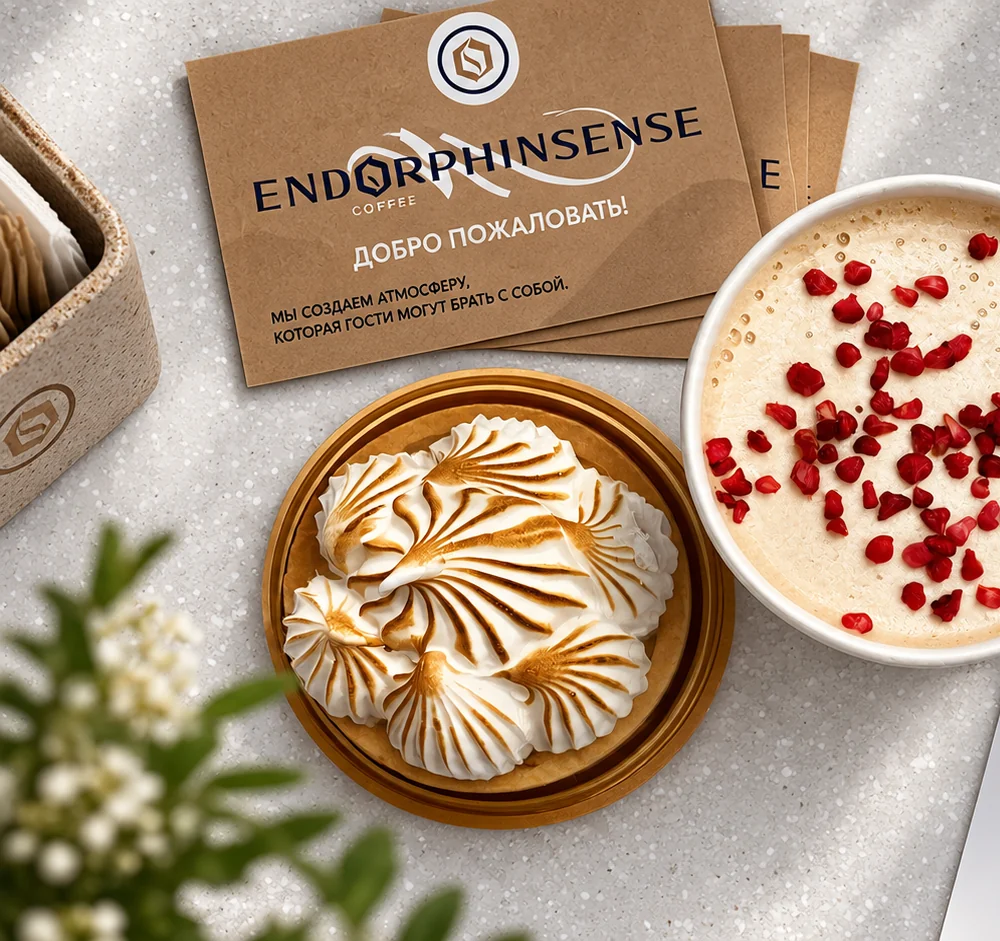
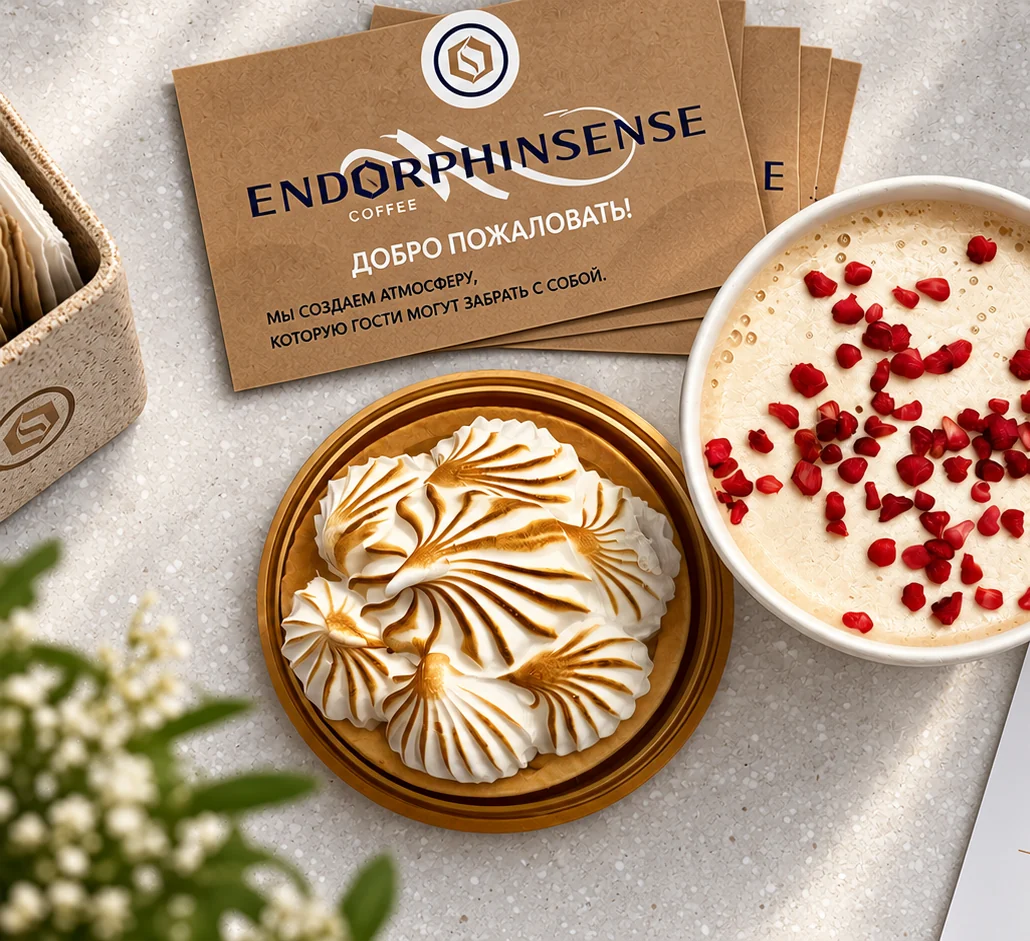
/gde-poest: меню кофейни «Эндорфин», исправленная цитата на фото, выравнивание карусели
- Добавлено меню «Эндорфин»: 11 позиций, без цен и граммовок; на десктопе — вторая колонка, на телефоне — раскрывающийся список
- Заменены endorphin-coffee-h.webp и endorphin-coffee-v.webp: исправлена грамматическая ошибка в цитате («которую гости могут забрать»)
- Карусель заведений на широком экране переведена в сетку из пяти колонок; правый край совпадает с карточкой «Яблоко»

diff --git a/app/gde-poest/page.tsx b/app/gde-poest/page.tsx
@@ -10,6 +10,7 @@ import {
   IconStore,
   IconBreakfast,
   IconMapPin,
+  IconChevronDown,
 } from './icons';
 import './gde-poest.css';
 
@@ -279,50 +280,102 @@ export default function GdePoestPage() {
             </div>
           </div>
 
-          {/* Тело секции */}
+          {/* Тело секции — на десктопе 2 колонки: слева контент, справа меню */}
           <div className="gp-endorphin-body gp-reveal">
-            <p className="gp-end-desc">
-              Деревянные балки, бежевые диваны и панорамное окно в зелень —
-              место, где утром не хочется торопиться. На стене мурал с
-              танцующей парой в пыльно-розовых и серо-синих тонах. Авторский
-              раф с дроблёной малиной, безе и кофе без суеты — и всё это в
-              соседнем корпусе.
-            </p>
 
-            {/* КУПОН */}
-            <div className="gp-coupon" aria-label="Купон на скидку 5% для гостей «Стиля Жизни»">
-              <div className="gp-coupon-left">
-                <span className="gp-coupon-pct">5%</span>
-                <span className="gp-coupon-label">Скидка</span>
+            {/* ── Левая колонка: описание, купон, кнопки ── */}
+            <div className="gp-end-main">
+              <p className="gp-end-desc">
+                Деревянные балки, бежевые диваны и панорамное окно в зелень —
+                место, где утром не хочется торопиться. На стене мурал с
+                танцующей парой в пыльно-розовых и серо-синих тонах. Авторский
+                раф с дроблёной малиной, безе и кофе без суеты — и всё это в
+                соседнем корпусе.
+              </p>
+
+              {/* КУПОН */}
+              <div className="gp-coupon" aria-label="Купон на скидку 5% для гостей «Стиля Жизни»">
+                <div className="gp-coupon-left">
+                  <span className="gp-coupon-pct">5%</span>
+                  <span className="gp-coupon-label">Скидка</span>
+                </div>
+                <div className="gp-coupon-divider" aria-hidden="true" />
+                <div className="gp-coupon-right">
+                  <span className="gp-coupon-sublabel">Гостям «Стиля Жизни»</span>
+                  <span className="gp-coupon-body">Промокод даёт менеджер при бронировании</span>
+                </div>
               </div>
-              <div className="gp-coupon-divider" aria-hidden="true" />
-              <div className="gp-coupon-right">
-                <span className="gp-coupon-sublabel">Гостям «Стиля Жизни»</span>
-                <span className="gp-coupon-body">Промокод даёт менеджер при бронировании</span>
+
+              {/* Строка завтрак */}
+              <div className="gp-end-breakfast-note">
+                <IconBreakfast />
+                Завтрак по внутреннему тарифу отеля оформляется заранее через
+                менеджера.
               </div>
+
+              {/* Кнопки */}
+              <div className="gp-end-actions">
+                <a
+                  href="https://yandex.ru/maps/org/endorfin/89879110034?si=lifestyle-crimea"
+                  className="gp-end-btn-primary"
+                  target="_blank"
+                  rel="nofollow noopener"
+                  aria-label="Открыть кофейню «Эндорфин» на карте"
+                >
+                  <IconMapPin />
+                  На карте
+                </a>
+                <BreakfastBtn />
+              </div>
+
+              {/* Мобайл: аккордеон меню (скрыт на ≥1025px) */}
+              <details className="gp-menu-collapse">
+                <summary className="gp-menu-toggle">
+                  <IconChevronDown className="gp-menu-toggle-ico" />
+                  Меню кофейни
+                </summary>
+                <div className="gp-menu-inner">
+                  <p className="gp-menu-title">Что есть в меню</p>
+                  <p className="gp-menu-footnote">Меню меняется каждый день — актуальное на кассе</p>
+                  <ol className="gp-menu-items">
+                    <li className="gp-menu-item"><span className="gp-menu-num">01</span><span className="gp-menu-name">Блинчики с бананом, творогом и арахисовой пастой</span></li>
+                    <li className="gp-menu-item"><span className="gp-menu-num">02</span><span className="gp-menu-name">Вафли из брокколи и сыра со сметаной</span></li>
+                    <li className="gp-menu-item"><span className="gp-menu-num">03</span><span className="gp-menu-name">Салат с пекинской капустой, курицей, горошком и яичным блинчиком</span></li>
+                    <li className="gp-menu-item"><span className="gp-menu-num">04</span><span className="gp-menu-name">Итальянский овощной суп минестроне</span></li>
+                    <li className="gp-menu-item"><span className="gp-menu-num">05</span><span className="gp-menu-name">Творожная ватрушка с сыром</span></li>
+                    <li className="gp-menu-item"><span className="gp-menu-num">06</span><span className="gp-menu-name">Курочка по-французски с гречкой и тушёной капустой</span></li>
+                    <li className="gp-menu-item"><span className="gp-menu-num">07</span><span className="gp-menu-name">Куриный бульон с лапшой, курицей и яйцом</span></li>
+                    <li className="gp-menu-item"><span className="gp-menu-num">08</span><span className="gp-menu-name">Салат «Цезарь»</span></li>
+                    <li className="gp-menu-item"><span className="gp-menu-num">09</span><span className="gp-menu-name">Сэндвич с курочкой карри</span></li>
+                    <li className="gp-menu-item"><span className="gp-menu-num">10</span><span className="gp-menu-name">Овсяная каша с сухофруктами и орехами</span></li>
+                    <li className="gp-menu-item"><span className="gp-menu-num">11</span><span className="gp-menu-name">Куриная котлетка с картофельным пюре</span></li>
+                  </ol>
+                </div>
+              </details>
             </div>
 
-            {/* Строка завтрак */}
-            <div className="gp-end-breakfast-note">
-              <IconBreakfast />
-              Завтрак по внутреннему тарифу отеля оформляется заранее через
-              менеджера.
-            </div>
+            {/* ── Правая колонка: меню (только десктоп ≥1025px) ── */}
+            <aside
+              className="gp-end-menu-panel"
+              aria-label="Что есть в меню кофейни «Эндорфин»"
+            >
+              <p className="gp-menu-title">Что есть в меню</p>
+              <p className="gp-menu-footnote">Меню меняется каждый день — актуальное на кассе</p>
+              <ol className="gp-menu-items">
+                <li className="gp-menu-item"><span className="gp-menu-num">01</span><span className="gp-menu-name">Блинчики с бананом, творогом и арахисовой пастой</span></li>
+                <li className="gp-menu-item"><span className="gp-menu-num">02</span><span className="gp-menu-name">Вафли из брокколи и сыра со сметаной</span></li>
+                <li className="gp-menu-item"><span className="gp-menu-num">03</span><span className="gp-menu-name">Салат с пекинской капустой, курицей, горошком и яичным блинчиком</span></li>
+                <li className="gp-menu-item"><span className="gp-menu-num">04</span><span className="gp-menu-name">Итальянский овощной суп минестроне</span></li>
+                <li className="gp-menu-item"><span className="gp-menu-num">05</span><span className="gp-menu-name">Творожная ватрушка с сыром</span></li>
+                <li className="gp-menu-item"><span className="gp-menu-num">06</span><span className="gp-menu-name">Курочка по-французски с гречкой и тушёной капустой</span></li>
+                <li className="gp-menu-item"><span className="gp-menu-num">07</span><span className="gp-menu-name">Куриный бульон с лапшой, курицей и яйцом</span></li>
+                <li className="gp-menu-item"><span className="gp-menu-num">08</span><span className="gp-menu-name">Салат «Цезарь»</span></li>
+                <li className="gp-menu-item"><span className="gp-menu-num">09</span><span className="gp-menu-name">Сэндвич с курочкой карри</span></li>
+                <li className="gp-menu-item"><span className="gp-menu-num">10</span><span className="gp-menu-name">Овсяная каша с сухофруктами и орехами</span></li>
+                <li className="gp-menu-item"><span className="gp-menu-num">11</span><span className="gp-menu-name">Куриная котлетка с картофельным пюре</span></li>
+              </ol>
+            </aside>
 
-            {/* Кнопки */}
-            <div className="gp-end-actions">
-              <a
-                href="https://yandex.ru/maps/org/endorfin/89879110034?si=lifestyle-crimea"
-                className="gp-end-btn-primary"
-                target="_blank"
-                rel="nofollow noopener"
-                aria-label="Открыть кофейню «Эндорфин» на карте"
-              >
-                <IconMapPin />
-                На карте
-              </a>
-              <BreakfastBtn />
-            </div>
           </div>
         </section>
 

diff --git a/app/gde-poest/gde-poest.css b/app/gde-poest/gde-poest.css
@@ -950,6 +950,207 @@
   .gp-sheet-trigger { transition: none; }
 }
 
+/* ══════════════════════════════════════════════════════
+   ДЕСКТОП ≥1280px — карусель → сетка пяти колонок
+   На широком экране все пять плиток видны целиком;
+   свайп не нужен. Сетка выровнена по тем же краям,
+   что и карточка «Яблоко» (.gp-products).
+   ══════════════════════════════════════════════════════ */
+
+@media (min-width: 1280px) {
+  /* Превращаем flex-карусель в CSS-сетку.
+     max-width + margin + padding совпадают с .gp-products:
+     правый край плитки-5 == правый край «Яблоко». */
+  .gp-carousel {
+    display: grid;
+    grid-template-columns: repeat(5, minmax(0, 1fr));
+    gap: 14px;
+    overflow-x: visible;
+    scroll-snap-type: none;
+    -webkit-overflow-scrolling: auto;
+    max-width: 1280px;
+    margin: 0 auto;
+    /* 4px сверху — чтобы reveal-тень не срезалась; 32px — единая сетка */
+    padding: 4px 32px 20px;
+  }
+
+  /* Спейсер-::after нужен только для горизонтального скролла —
+     на сетке он стал бы лишним шестым элементом. */
+  .gp-carousel::after {
+    display: none;
+  }
+
+  /* Плитки — fluid по ширине колонки, высота 330px сохраняется. */
+  .gp-tile {
+    flex: none;
+    width: auto;
+  }
+
+  /* «Старый город» (27px/800) в плитке ~232px потенциально тесен.
+     Уменьшаем шрифт названия на одну ступень — мобайл не затронут. */
+  .gp-tile-name {
+    font-size: 22px;
+  }
+
+  /* Точки-индикаторы и «свайп» бессмысленны без прокрутки — скрываем. */
+  .gp-carousel-nav {
+    display: none;
+  }
+}
+
+/* ══════════════════════════════════════════════════════
+   МЕНЮ «ЭНДОРФИН» — мобайл: аккордеон, десктоп: колонка
+   ══════════════════════════════════════════════════════ */
+
+/* На мобиле десктоп-панель скрыта */
+.gp-end-menu-panel {
+  display: none;
+}
+
+/* Аккордеон — обёртка <details> */
+.gp-menu-collapse {
+  margin-top: 16px;
+}
+
+/* <summary> стилизован как кнопка */
+.gp-menu-toggle {
+  list-style: none;
+  display: flex;
+  align-items: center;
+  justify-content: center;
+  gap: 8px;
+  width: 100%;
+  height: 52px;
+  border-radius: 999px;
+  background: rgba(255, 255, 255, 0.08);
+  border: 1.5px solid rgba(255, 255, 255, 0.28);
+  color: #fff;
+  font-size: 14px;
+  font-weight: 600;
+  font-family: var(--font-montserrat), system-ui, sans-serif;
+  cursor: pointer;
+  transition: background 0.2s ease;
+}
+
+.gp-menu-toggle::-webkit-details-marker { display: none; }
+.gp-menu-toggle::marker               { content: none; }
+
+.gp-menu-toggle:hover {
+  background: rgba(255, 255, 255, 0.14);
+}
+
+.gp-menu-toggle:focus-visible {
+  outline: 3px solid rgba(255, 255, 255, 0.7);
+  outline-offset: 3px;
+}
+
+/* Шеврон — поворачивается при открытии */
+.gp-menu-toggle-ico {
+  width: 16px;
+  height: 16px;
+  flex-shrink: 0;
+  transition: transform 0.2s ease;
+}
+
+.gp-menu-collapse[open] .gp-menu-toggle-ico {
+  transform: rotate(180deg);
+}
+
+/* Содержимое меню — общее для аккордеона и десктоп-панели */
+.gp-menu-inner {
+  padding-top: 14px;
+}
+
+.gp-menu-title {
+  font-size: 13px;
+  font-weight: 700;
+  /* #fff на #1a2740 (navy) = 14.9:1 (AAA) */
+  color: #fff;
+  letter-spacing: 0.02em;
+  margin: 0 0 4px;
+}
+
+.gp-menu-footnote {
+  font-size: 11px;
+  font-weight: 400;
+  /* rgba(255,255,255,.55) на #1a2740 = 7.3:1 (AA) */
+  color: rgba(255, 255, 255, 0.55);
+  margin: 0 0 12px;
+  line-height: 1.5;
+}
+
+.gp-menu-items {
+  list-style: none;
+  margin: 0;
+  padding: 0;
+}
+
+.gp-menu-item {
+  display: flex;
+  gap: 12px;
+  align-items: flex-start;
+  padding: 10px 0;
+  border-bottom: 1px solid rgba(255, 255, 255, 0.08);
+}
+
+.gp-menu-item:last-child {
+  border-bottom: none;
+  padding-bottom: 0;
+}
+
+.gp-menu-num {
+  font-size: 11px;
+  font-weight: 700;
+  /* #c9a058 (бронза) на #1a2740 (navy) = 4.7:1 (AA) */
+  color: #c9a058;
+  flex-shrink: 0;
+  line-height: 1.7;
+  min-width: 22px;
+}
+
+.gp-menu-name {
+  font-size: 13px;
+  /* rgba(255,255,255,.88) на #1a2740 = 12.4:1 (AAA) */
+  color: rgba(255, 255, 255, 0.88);
+  line-height: 1.55;
+}
+
+/* ── Десктоп: две колонки в секции «Эндорфин» ─────── */
+@media (min-width: 1025px) {
+  /* Тело секции: 2-колоночная сетка в 1280px-контейнере */
+  .gp-endorphin-body {
+    max-width: 1280px;
+    display: grid;
+    grid-template-columns: 1fr 1fr;
+    gap: 48px;
+    align-items: start;
+    padding: 40px 32px 56px;
+  }
+
+  /* Аккордеон не нужен на десктопе */
+  .gp-menu-collapse {
+    display: none;
+  }
+
+  /* Показываем правую колонку с меню */
+  .gp-end-menu-panel {
+    display: flex;
+    flex-direction: column;
+  }
+
+  .gp-menu-title {
+    font-size: 14px;
+    margin-bottom: 6px;
+  }
+}
+
+@media (prefers-reduced-motion: reduce) {
+  .gp-menu-toggle,
+  .gp-menu-toggle-ico {
+    transition: none;
+  }
+}
+
 /* Затемнение */
 .gp-sheet-backdrop {
   position: fixed;

diff --git a/app/gde-poest/icons.tsx b/app/gde-poest/icons.tsx
@@ -42,6 +42,27 @@ export function IconMapPin({ className }: IconProps) {
   );
 }
 
+/** Шеврон вниз — для кнопки-аккордеона меню */
+export function IconChevronDown({ className }: IconProps) {
+  return (
+    <svg
+      className={className}
+      viewBox="0 0 32 32"
+      fill="none"
+      xmlns="http://www.w3.org/2000/svg"
+      aria-hidden="true"
+    >
+      <path
+        d="M8 12L16 20L24 12"
+        stroke="currentColor"
+        strokeWidth="2"
+        strokeLinecap="round"
+        strokeLinejoin="round"
+      />
+    </svg>
+  );
+}
+
 /** Столовые приборы — для карточек кафе и ресторанов */
 export function IconRestaurant({ className }: IconProps) {
   return (
